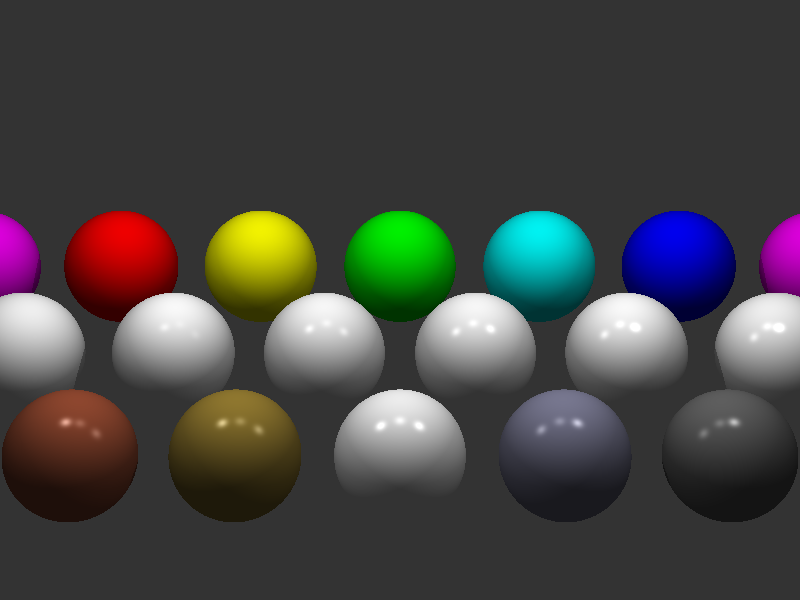
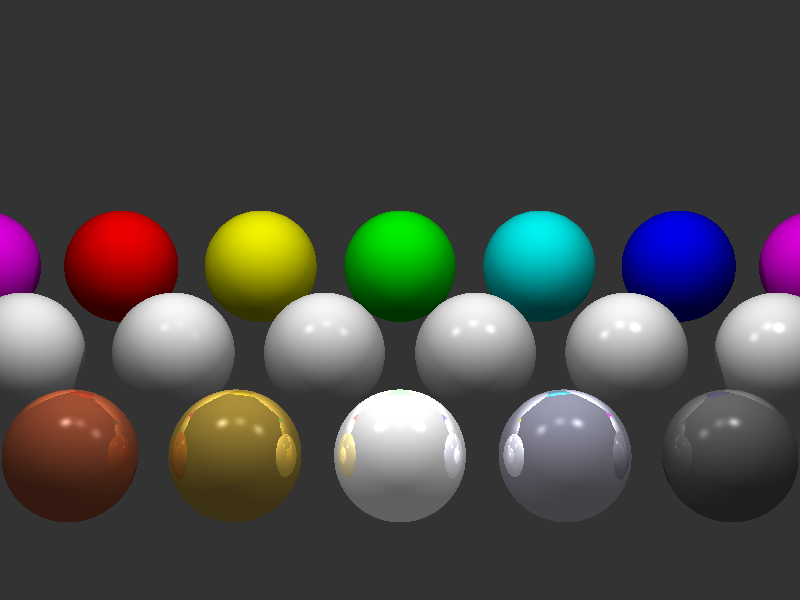
Implement mirror reflections, rendered TestScenes/lighting.txt again, reflections match.
Still slight issue of shadows being different.

diff --git a/Scene.cpp b/Scene.cpp
@@ -98,6 +98,19 @@ Colour Scene::computeColour(const Ray &viewRay, unsigned int rayDepth) const {
         hitColour += light->getIntensityAt(point) * light->colour * (diffuseColour + specularColour);
     }
 
+    // Check for ray depth to prevent infinite recursion
+    // Also check the hit materials mirror colour isn't tiny, to prevent unnecesary reflection recursion
+    if (rayDepth > 0 && mat.mirrorColour.red > epsilon && mat.mirrorColour.green > epsilon && mat.mirrorColour.blue > epsilon) {
+        // Cast reflection ray, r = 2n(e.n)-e
+        Ray reflectionRay;
+        reflectionRay.point = point;
+        reflectionRay.direction = 2 * unitNormal * unitEyeDirection.dot(unitNormal) - unitEyeDirection;
+
+        // Get the colour at to be reflected
+        Colour reflectedColour = computeColour(reflectionRay, rayDepth - 1);
+        hitColour += mat.mirrorColour * reflectedColour;
+    }
+
     hitColour.clip();
 
     return hitColour;

diff --git a/Scene.h b/Scene.h
@@ -226,13 +226,6 @@ private:
      * If the Ray does not hit any Object, then the Scene's backgroundColour should be
      * returned.
      *
-     * \todo Currently this method deals with ambient lighting, diffuse shading, specular shading and shadows.
-     *       It needs to be extended to account for the mirror properties
-     *       of the Material of the Object that is hit.
-     *       You will also need to cast additional Rays to check for reflections.
-     *       The number of recursions made for reflections should be limited by the
-     *       rayDepth parameter passed to this method.
-     *
      * \param viewRay The Ray to intersect with the Objects in the Scene.
      * \param rayDepth The maximum number of reflection Rays that can be cast.
      * \return The Colour observed by the viewRay.

diff --git a/README.md b/README.md
@@ -4,7 +4,7 @@ COSC342 - Assignment 02 - Ray Tracer
 ## TODO	
 - Diffuse (Lambertian) shading - DONE
 - Specular (Phong) shading - DONE
-- Shadows cast by objects - DONE?
-- Mirror reflections
+- Shadows cast by objects - DONE - (slight issue of mismatch with lighting_expected)
+- Mirror reflections - DONE
 - Rendering of cones
 - Rendering of CSG intersection
